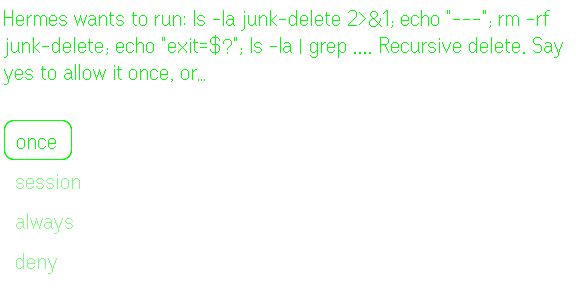
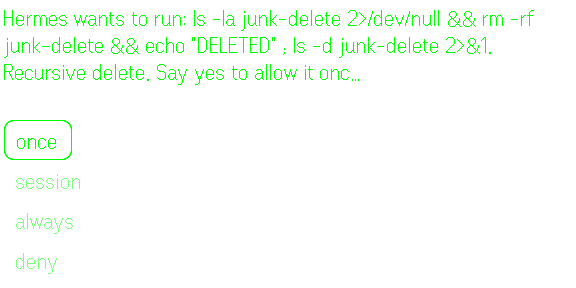
Release 0.6.3: fresh G2 approval picture (docs) (#61)

diff --git a/README.md b/README.md
@@ -11,7 +11,7 @@ Your own Hermes agent on smart glasses and voice devices: it sees what you see, 
 [![Hermes >= 0.22.2](https://img.shields.io/badge/Hermes-%3E%3D%200.22.2-6f42c1)](https://hermes-agent.nousresearch.com)
 [![CI](https://github.com/100yenadmin/glasses-platform/actions/workflows/ci.yml/badge.svg?branch=main)](https://github.com/100yenadmin/glasses-platform/actions/workflows/ci.yml)
 
-> **Status: v0.6.2 preview. Not yet tested on real glasses.** The Hermes side is proven against the bundled
+> **Status: v0.6.3 preview. Not yet tested on real glasses.** The Hermes side is proven against the bundled
 > simulators and a real Hermes gateway with real models ([evidence](docs/evidence/M0-live-proof.md)); CI tests it on
 > Hermes v0.22.2, v0.23.0 and `main`. Each device path below was run against a real Hermes gateway with a simulated
 > device; no real glasses, watch, voice box or pendant has been tested yet.

diff --git a/CHANGELOG.md b/CHANGELOG.md
@@ -2,6 +2,12 @@
 
 Each release has full notes on the [releases page](https://github.com/100yenadmin/glasses-platform/releases).
 
+## 0.6.3 (2026-11-10): a fresh G2 approval picture
+
+Docs only. The G2 app's approval screenshot is a new capture from the Even Hub simulator talking to a real 0.6.2
+gateway: the whole command fits on the lens, so every choice is offered. The old picture showed a clipped command
+that still offered "once", which 0.6.2 no longer allows. No code changes.
+
 ## 0.6.2 (2026-11-10): no approving a command you could not read whole
 
 - **Clipped commands can only be blocked from a device.** An approval prompt used to cut the command to 87

diff --git a/clients/even-g2/README.md b/clients/even-g2/README.md
@@ -12,6 +12,9 @@ Lens captures from the official Even Hub simulator, talking to a real Hermes gat
 |---|---|---|
 | ![Answer on the lens](docs/answer.png) | ![Approval choices](docs/approval-list.png) | ![Reminder push](docs/reminder.png) |
 
+An approval card offers its choices only when the whole command is on the lens. When the command does not fit
+(or spans lines), the card offers only Deny; allow it with a typed `/approve` after reading the full command.
+
 ## Develop and side-load
 
 From this directory: `npm install`, then `npm run dev` (port 5173, fails if occupied).
